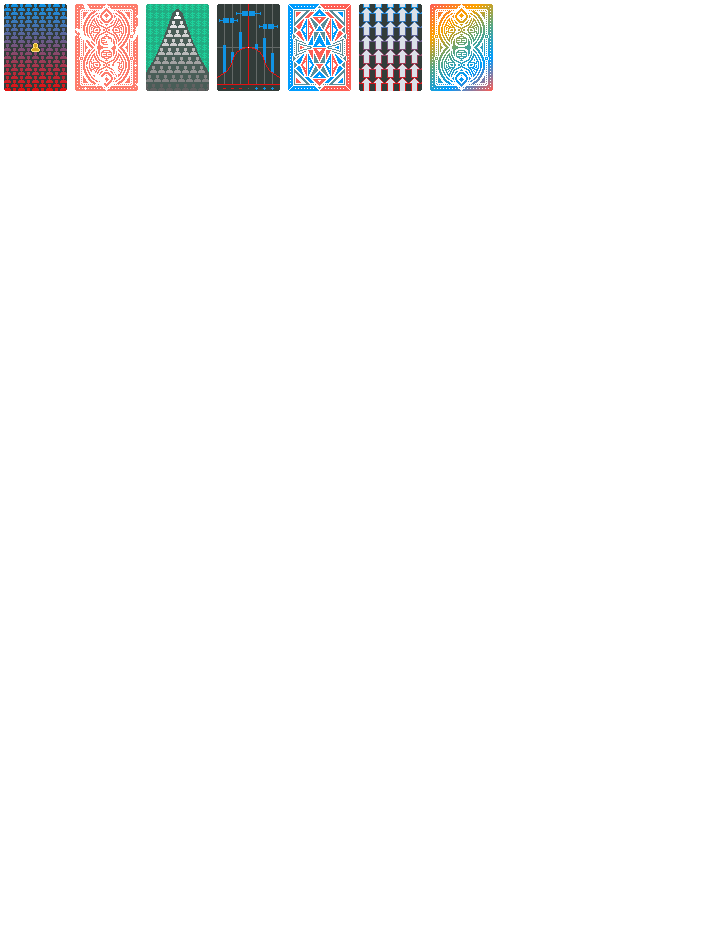
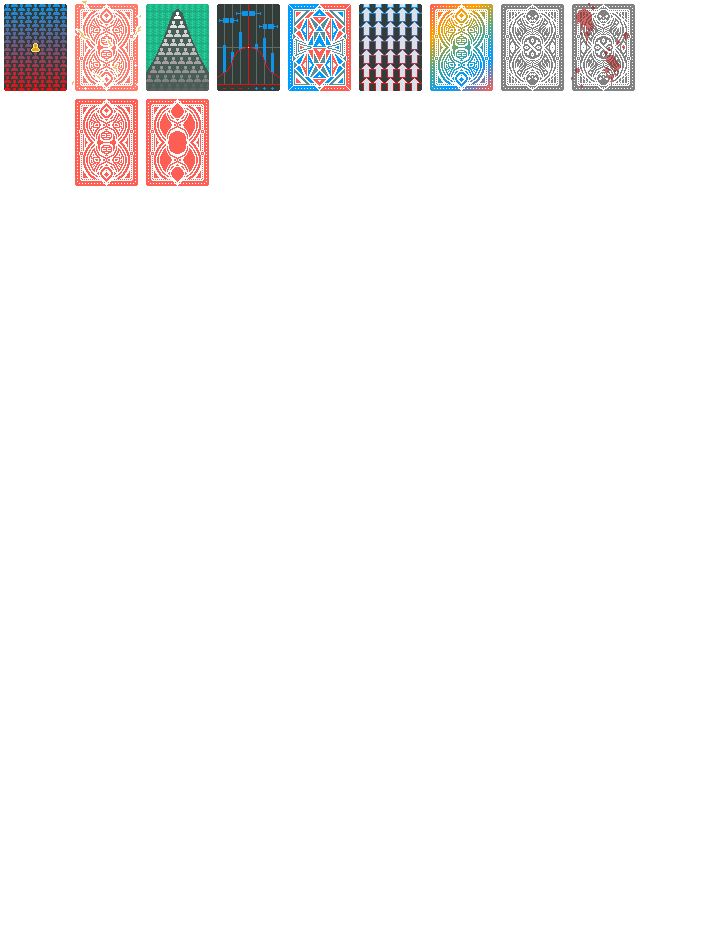
Add Horror deck

Changed region(s): [[0.093, 0.0916, 0.3099, 0.2137], [0.6817, 0.0, 0.8986, 0.1221]]

diff --git a/web/addjokers.js b/web/addjokers.js
@@ -882,6 +882,14 @@ let decks = [
     rarity: "Deck"
   },
   {
+    name: "Horror Deck",
+    text: [
+      "Prevents first death"
+    ],
+    image_url: "img/b/horror.png",
+    rarity: "Deck"
+  },
+  {
     name: "Ponzi Deck",
     text: [
       "Start with {C:attention}5{} copies",
